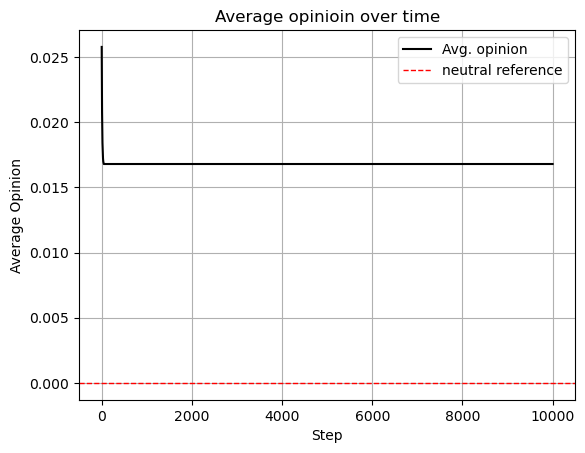
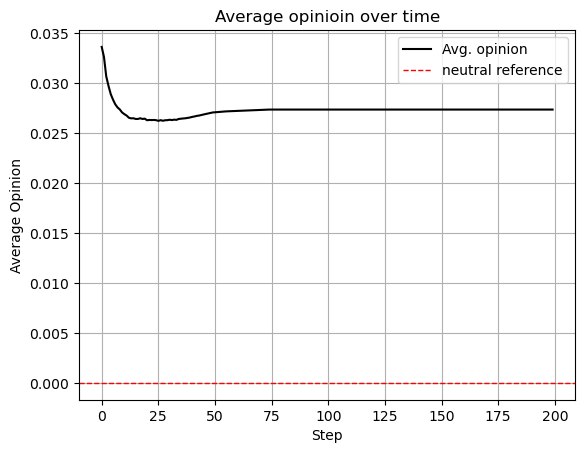
Ny graf generering

diff --git a/Kode/Graf.py b/Kode/Graf.py
@@ -10,7 +10,7 @@ def random_relations_graph(num_of_nodes,size_of_array):
     fromnodes, tonodes =  np.random.randint(num_of_nodes, size=(2, size_of_array))
     for node in range(num_of_nodes):
         opinion = np.round(np.clip(np.random.randn() * 0.5, -1, 1), 2)
-        learningrate = np.random.uniform(0.01, 0.1)
+        learningrate = np.random.uniform(0.1, 1)
         Graph.add_node(node, opinion=opinion, learningrate=learningrate, acceptrate = 0, type ='Human')
 
 
@@ -28,6 +28,87 @@ def random_relations_graph(num_of_nodes,size_of_array):
                 Graph.add_edge(x,y, weight = weight)
                 Graph.add_edge(y,x, weight = weight)
     return Graph
+
+
+def ba_opinion_graph(n=50, m=2):
+    # BA graph — preferential attachment gives you hubs
+    G_base = nx.barabasi_albert_graph(n, m)
+    G = nx.DiGraph()
+
+    for node in range(n):
+        G.add_node(node,
+            opinion=np.round(np.clip(np.random.randn() * 0.5, -1, 1), 2),
+            learningrate=np.random.uniform(0.1, 0.5),
+            acceptrate=0,
+            type='Human'
+        )
+    for x, y in G_base.edges():
+        weight = round(np.clip(np.random.randn() * 0.5, -1, 1), 2)
+        G.add_edge(x, y, weight=weight)
+        G.add_edge(y, x, weight=weight)
+
+    return G
+
+def ws_opinion_graph(n=50, k=4, p=0.1):
+    #small world graf
+    G_base = nx.watts_strogatz_graph(n, k, p)
+    G = nx.DiGraph()
+    for node in range(n):
+        G.add_node(node,
+            opinion=np.round(np.clip(np.random.randn() * 0.5, -1, 1), 2),
+            learningrate=np.random.uniform(0.1, 0.5),
+            acceptrate=0, type='Human')
+    for x, y in G_base.edges():
+        weight = round(np.clip(np.random.randn() * 0.5, -1, 1), 2)
+        G.add_edge(x, y, weight=weight)
+        G.add_edge(y, x, weight=weight)
+    return G
+
+
+
+def hk_opinion_graph(n=50, m=2, p=0.5):
+    G_base = nx.powerlaw_cluster_graph(n, m, p)
+    G = nx.DiGraph()
+    for node in range(n):
+        G.add_node(node,
+            opinion=np.round(np.clip(np.random.randn() * 0.5, -1, 1), 2),
+            learningrate=np.random.uniform(0.1, 0.5),
+            acceptrate=0, type='Human')
+    for x, y in G_base.edges():
+        weight = round(np.clip(np.random.randn() * 0.5, -1, 1), 2)
+        G.add_edge(x, y, weight=weight)
+        G.add_edge(y, x, weight=weight)
+    return G
+
+def sbm_opinion_graph(sizes=None, p_in=0.3, p_out=0.02):
+    if sizes is None:
+        sizes = [25, 25]          # two equal communities
+    n_groups = len(sizes)
+    p = [[p_in  if i == j else p_out
+          for j in range(n_groups)]
+         for i in range(n_groups)]
+    G_base = nx.stochastic_block_model(sizes, p)
+    G = nx.DiGraph()
+    for node in range(sum(sizes)):
+        block = G_base.nodes[node]['block']
+        # Seed opinions per community for polarisation
+        community_bias = (block / (n_groups - 1) * 2 - 1) if n_groups > 1 else 0
+        opinion = np.round(np.clip(
+            community_bias * 0.5 + np.random.randn() * 0.3, -1, 1), 2)
+        G.add_node(node,
+            opinion=opinion,
+            learningrate=np.random.uniform(0.1, 0.5),
+            acceptrate=0, type='Human',
+            community=block)
+    for x, y in G_base.edges():
+        weight = round(np.clip(np.random.randn() * 0.5, -1, 1), 2)
+        G.add_edge(x, y, weight=weight)
+        G.add_edge(y, x, weight=weight)
+    return G
+
+
+
+
 
 def add_media_nodes(Graph, num_of_media_nodes, reach=None):
     """
@@ -137,3 +218,81 @@ def show_opinion_histogram(Graph):
 def show_change(before,after):
     for node in before.nodes():
         print(f"Node {node}: {before.nodes[node]['opinion']} → {after.nodes[node]['opinion']}")
+
+
+
+def degreedist(graph,drawstyle):
+    """
+   The code is taken from the networkx documentation examples, and then modified to suit the needs of the project
+   https://networkx.org/documentation/stable/auto_examples/drawing/plot_degree.html#
+
+    Args:
+        Graf: a graph made with networkx
+        drawstyle (string): can be "spring" or "circular"
+
+    Returns:
+        A plot of the graph\\
+        A plot of degree rank \\
+        A histogram of the degree distribution
+    """
+    is_directed = graph.is_directed()
+    degree_sequence = sorted((d for n, d in graph.degree()), reverse=True)
+    dmax = max(degree_sequence)
+    fig = plt.figure("Degree of a random graph", figsize=(8, 8))
+    axgrid = fig.add_gridspec(5, 4)
+
+    ax0 = fig.add_subplot(axgrid[0:3, :])
+    if is_directed:
+        components = sorted(nx.weakly_connected_components(graph), key=len, reverse=True)
+        title = "Largest Weakly Connected Component"
+    else:
+        components = sorted(nx.connected_components(graph), key=len, reverse=True)
+        title = "Largest Connected Component"
+
+    Gcc = graph.subgraph(graph.subgraph(components[0]))
+    if drawstyle == "spring":
+        pos = nx.spring_layout(Gcc)
+        nx.draw_networkx_nodes(Gcc, pos, ax=ax0, node_size=20)
+        nx.draw_networkx_edges(Gcc, pos, ax=ax0, alpha=0.4)
+        ax0.set_title("Connected components of Graph")
+        ax0.set_axis_off()
+    if drawstyle == "circular":
+        pos = nx.circular_layout(Gcc)
+        nx.draw_networkx_nodes(Gcc, pos, ax=ax0, node_size=20)
+        nx.draw_networkx_edges(Gcc, pos, ax=ax0, alpha=0.4)
+        ax0.set_title("Connected components of Graph")
+        ax0.set_axis_off()
+
+    if is_directed:
+
+        in_degrees = sorted((d for n, d in graph.in_degree()), reverse=True)
+        out_degrees = sorted((d for n, d in graph.out_degree()), reverse=True)
+
+        # In-Degree Histogram
+        ax1 = fig.add_subplot(axgrid[3:, :2])
+        ax1.bar(*np.unique(in_degrees, return_counts=True), color='skyblue', alpha=0.7)
+        ax1.set_title("In-Degree Histogram")
+        ax1.set_xlabel("Degree")
+        ax1.set_ylabel("# of Nodes")
+
+        # Out-Degree Histogram
+        ax2 = fig.add_subplot(axgrid[3:, 2:])
+        ax2.bar(*np.unique(out_degrees, return_counts=True), color='orange', alpha=0.7)
+        ax2.set_title("Out-Degree Histogram")
+        ax2.set_xlabel("Degree")
+
+    else:
+
+        degree_sequence = sorted((d for n, d in graph.degree()), reverse=True)
+
+        ax1 = fig.add_subplot(axgrid[3:, :2])
+        ax1.plot(degree_sequence, '.')
+        ax1.set_title("Degree Rank Plot")
+
+        ax2 = fig.add_subplot(axgrid[3:, 2:])
+        ax2.bar(*np.unique(degree_sequence, return_counts=True))
+        ax2.set_title("Degree Histogram")
+
+
+    fig.tight_layout()
+    plt.show()

diff --git a/Kode/Alle_simuleringer.py b/Kode/Alle_simuleringer.py
@@ -12,8 +12,9 @@ print('Done loading functions')
 
 
 
-steps = 10000
-Graf =  random_relations_graph(1000,150)
+steps = 200
+Graf =  random_relations_graph(1000,500)
+degreedist(Graf,"circular")
 print('Simulering: Ingen medier ingen disinfo ikke dynamiske kanter')
 start_cond, end_state, all_avg_opinions,all_avg_distances = simple_simulation(Graf,steps)
 #show_simulation_results(start_cond, end_state, all_avg_opinions,all_avg_distances)
